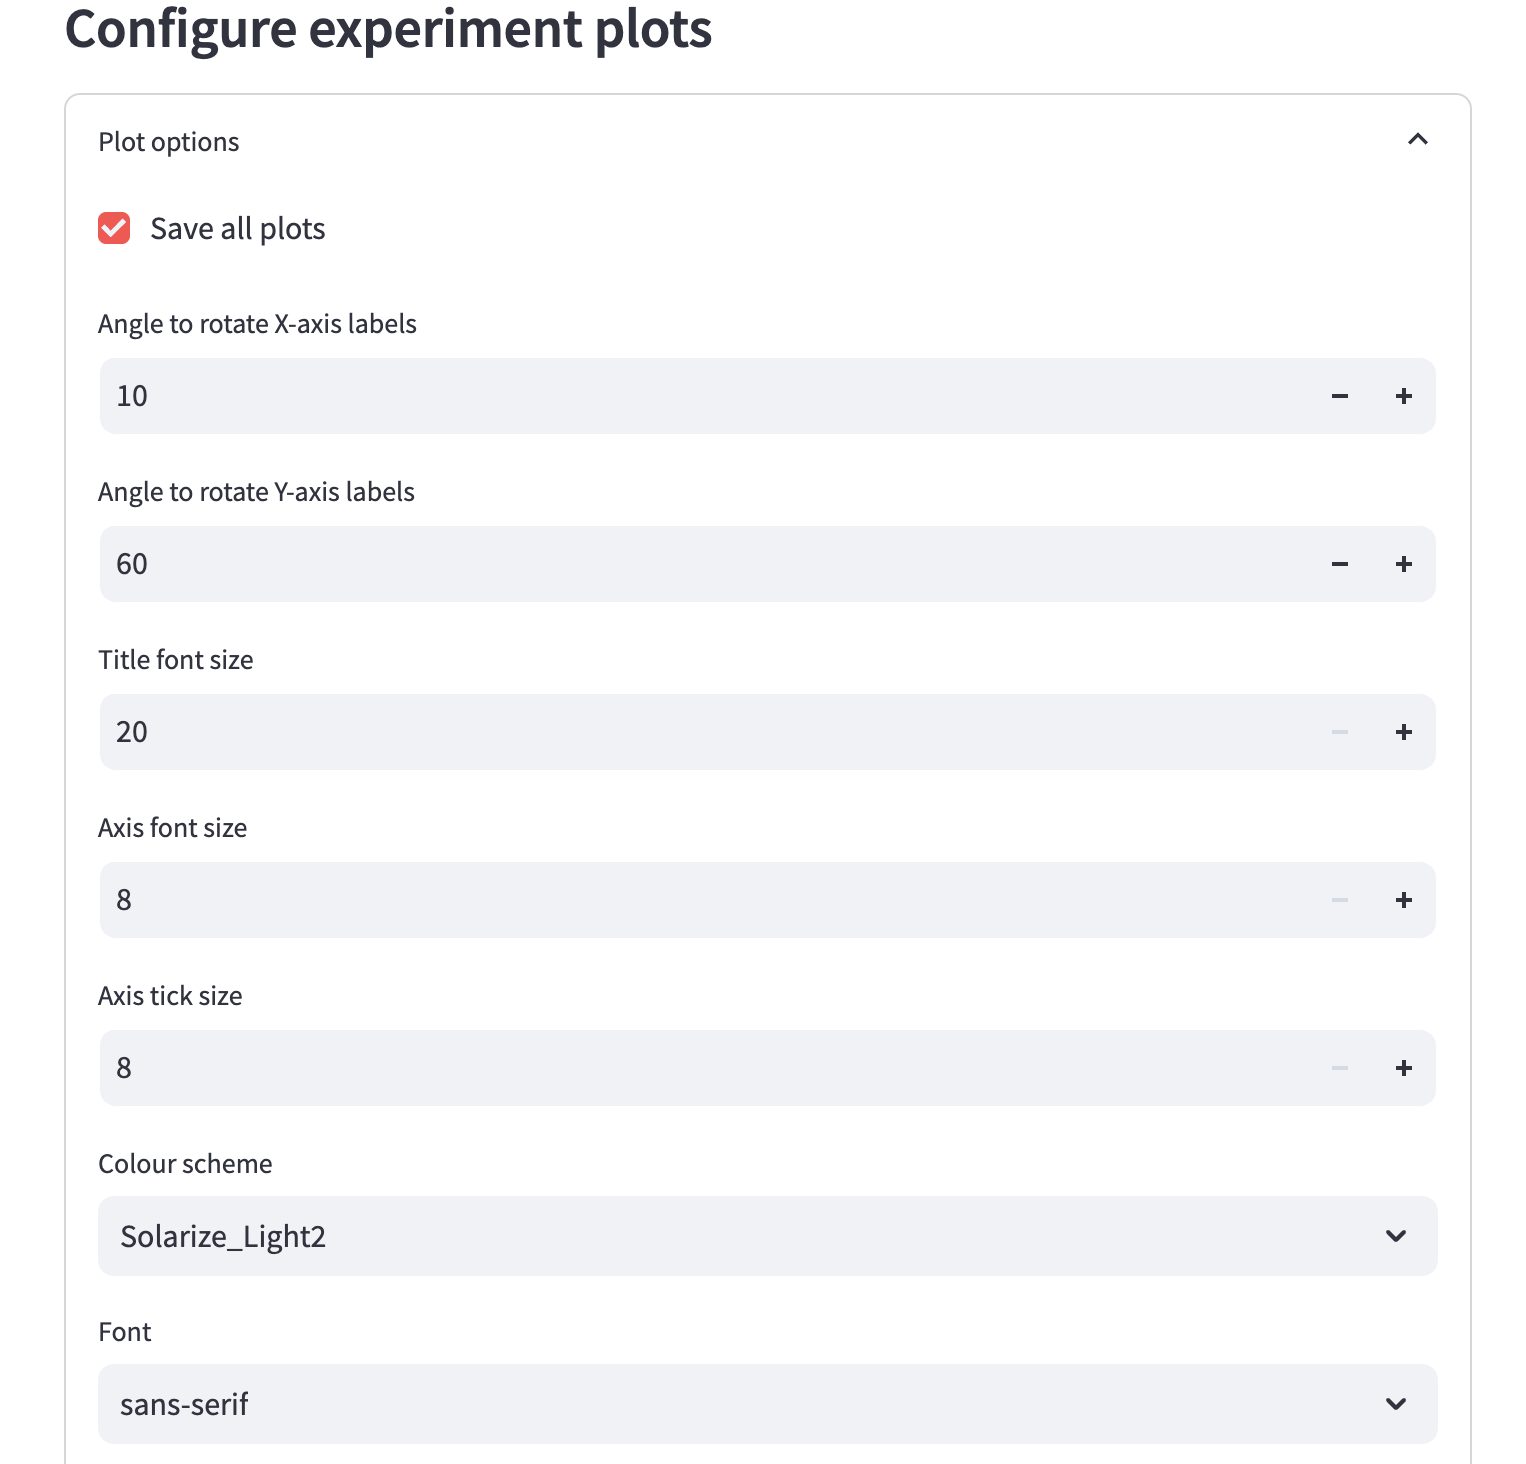
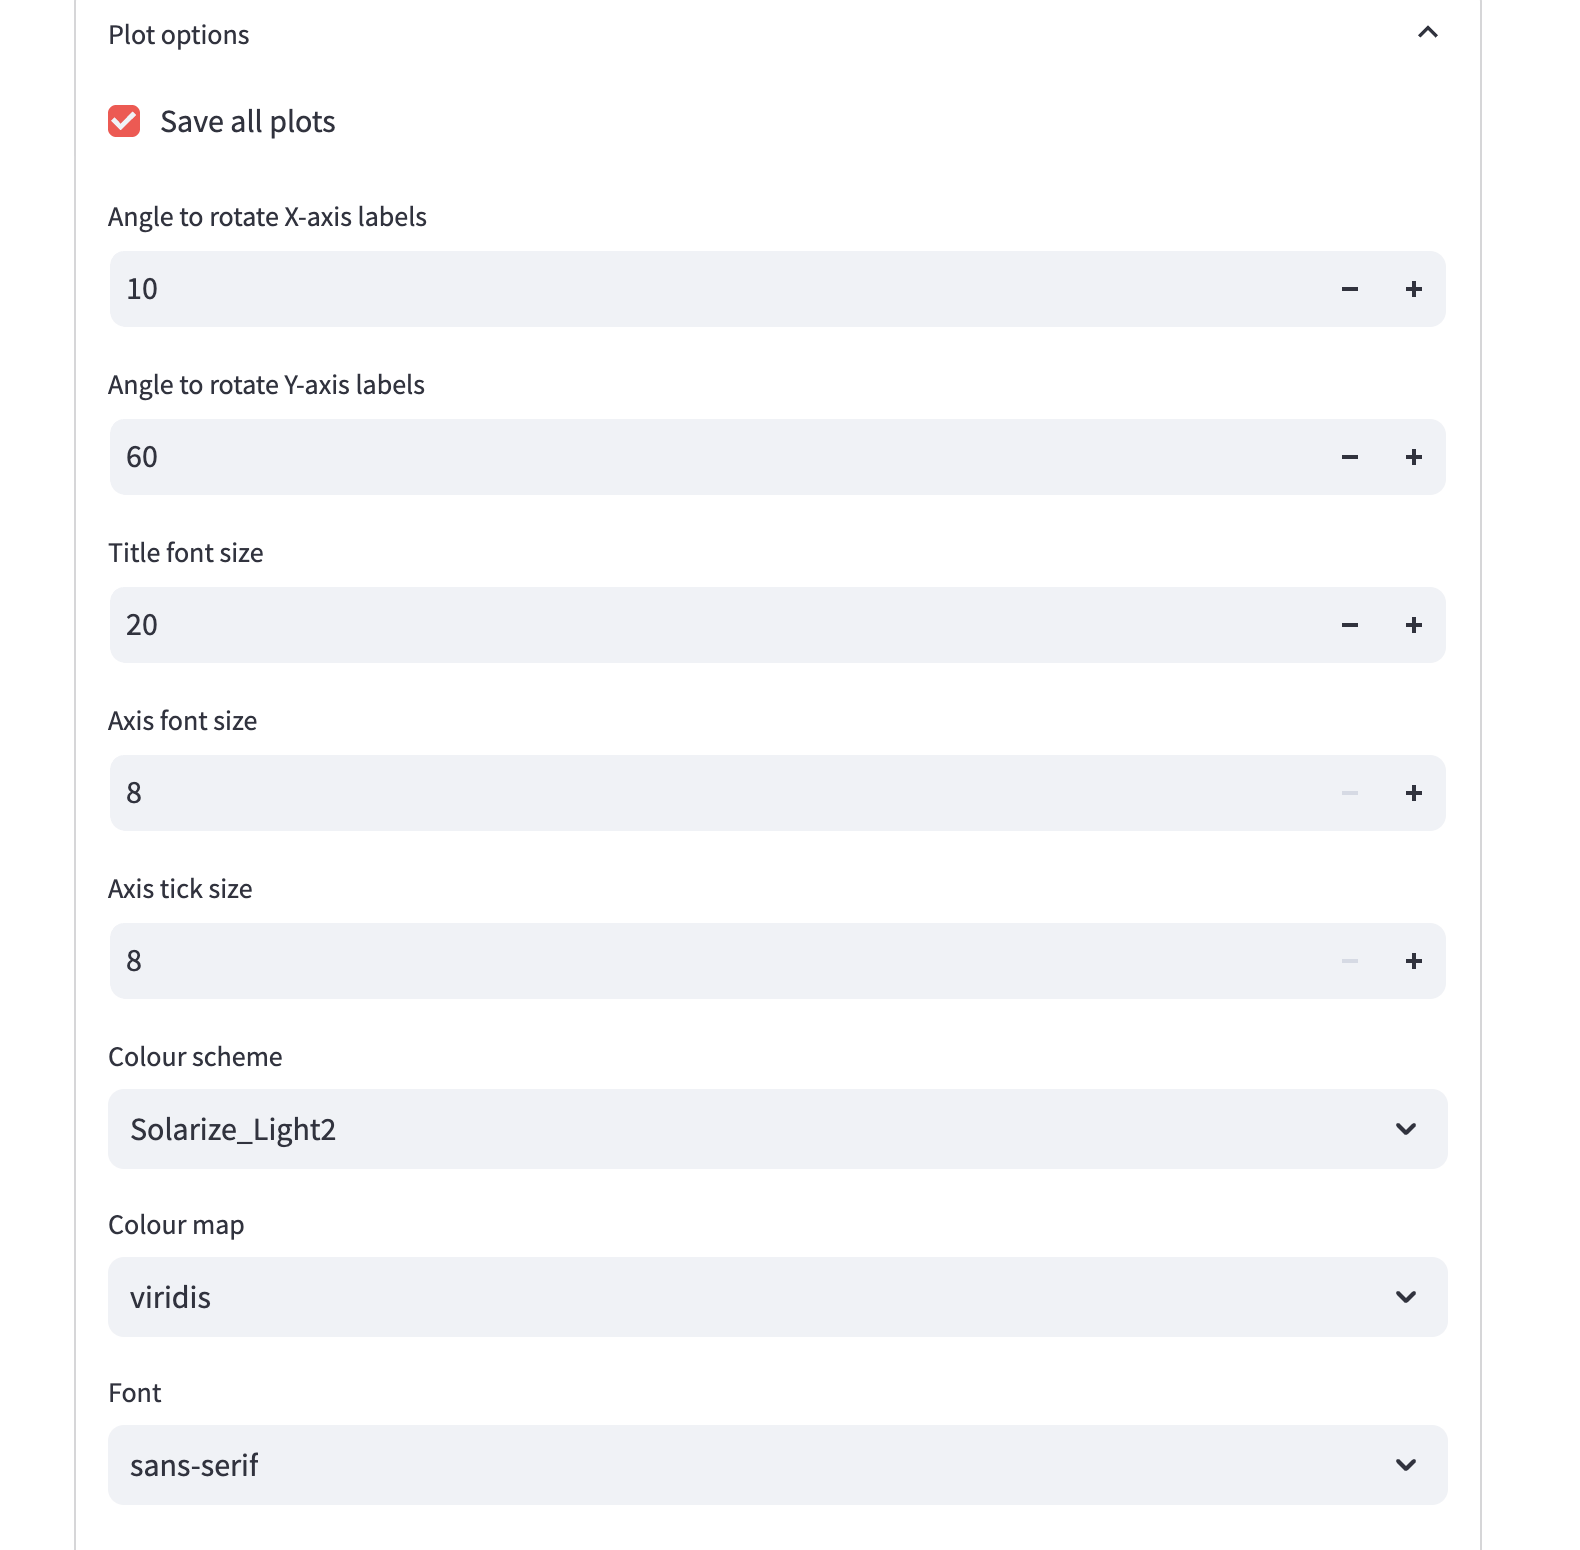
colour map explanation

diff --git a/docs/users/create_experiment.md b/docs/users/create_experiment.md
@@ -91,6 +91,11 @@ In BioFEFI, you must create an experiment before you can train models and perfor
   - seaborn-v0_8-whitegrid
   - tableau-colorblind10
 
+- Colour map. Defaults to "viridis"
+
+  Options:
+  - The list is very long but the full reference can be viewed [here](https://matplotlib.org/stable/gallery/color/colormap_reference.html).
+
 - Font. Defaults to "sans-serif".
 
   Options:
